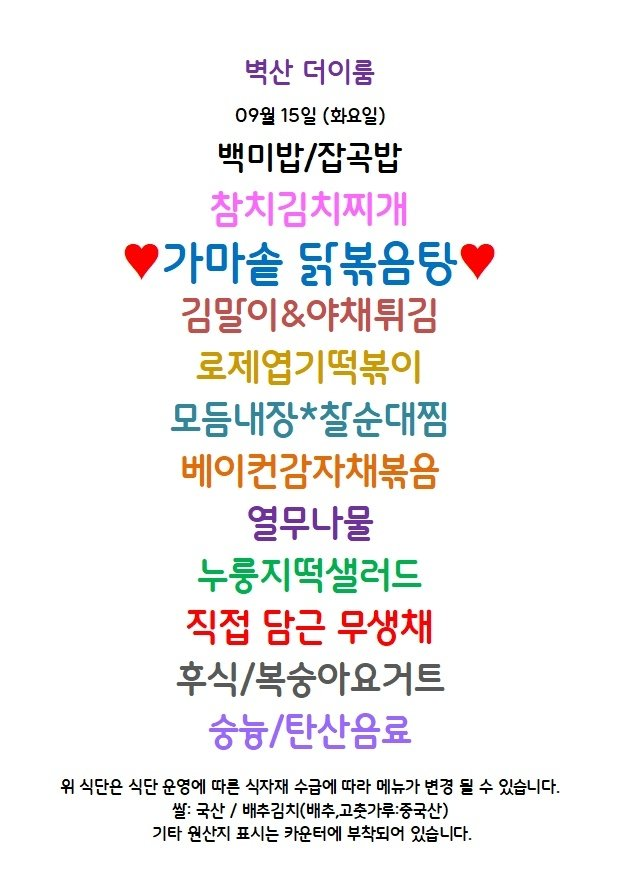
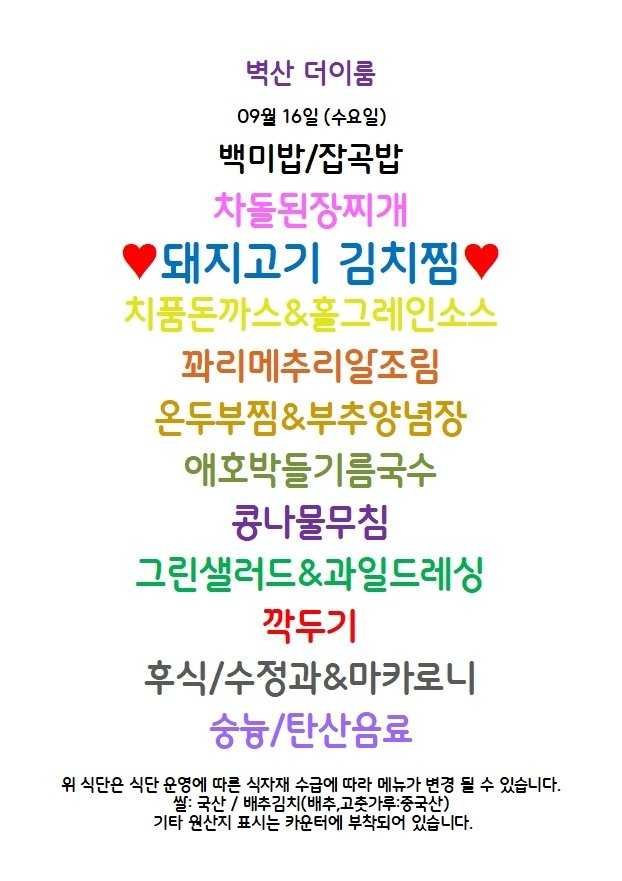
Update menu board assets

Changed region(s): [[0.0916, 0.1226, 0.9164, 0.9807], [0.3971, 0.0613, 0.6109, 0.0919]]

diff --git a/guro-menu/index.html b/guro-menu/index.html
@@ -32,7 +32,7 @@
   </header>
   <section class="meta">
     <div><small>기준 날짜</small><strong>2026년 9월 16일 수요일</strong></div>
-    <div><small>최종 갱신</small><strong>2026-09-16 10:03:34</strong></div>
+    <div><small>최종 갱신</small><strong>2026-09-16 10:13:19</strong></div>
     <div><small>등록 식당</small><strong>5개</strong></div>
   </section>
   <div class="notice">공개 카카오 채널의 메뉴 이미지를 자동 수집하고 OCR로 정리합니다. 텍스트에 오타가 있을 수 있으니 식단 이미지를 함께 확인해 주세요.</div>
@@ -89,8 +89,8 @@
           <a class="channel" href="https://pf.kakao.com/_xdLzxgG" target="_blank" rel="noopener">원본 채널</a>
         </div>
         <img class="menu-image" src="./images/byucksan-theirum.png" alt="벽산더이룸 식단 이미지" loading="lazy">
-        <p class="message">최신 공개 식단 이미지의 텍스트입니다. 날짜는 원본 이미지를 확인해 주세요.</p>
-        <ul><li>백미밥/잡곡밥</li><li>참치김지찌개</li><li>김말이8&amp;야채튀김</li><li>로제엽기떡볶이</li><li>모듬내장*칠순대찜</li><li>베이컨감자채볶음</li><li>열무나물</li><li>누릉지떡샐러드</li><li>직접 담근 무생채</li><li>후식/복숭아요거트</li><li>숭늉/탄산음료</li><li>ME: 국산 / 배추김치(배추,고촛가루:중국산)</li><li>기타 원산지 표시는 카운터에 부착되어 있습니다</li></ul>
+        
+        <ul><li>백미밥/잡곡밥</li><li>차돌된장찌개</li><li>돼지고기</li><li>과리메추리일조림</li><li>온두부찜&amp;부추양념장</li><li>애호박들기름국수</li><li>콤나물무침</li><li>그린샐러드&amp;과일드레싱</li><li>후식/수정과&amp;마카로니</li><li>숭늉/탄산음료</li></ul>
       </article>
 
       <article class="restaurant-card">

diff --git a/menu-today/index.html b/menu-today/index.html
@@ -209,7 +209,7 @@
 
     <section class="meta-bar">
       <div class="meta-card"><div class="meta-label">기준 날짜</div><div class="meta-value">2026년 9월 16일 수요일</div></div>
-      <div class="meta-card"><div class="meta-label">최종 가져온 시간</div><div class="meta-value">2026-09-16 10:03:17</div></div>
+      <div class="meta-card"><div class="meta-label">최종 가져온 시간</div><div class="meta-value">2026-09-16 10:13:04</div></div>
       <div class="meta-card"><div class="meta-label">확인 완료</div><div class="meta-value">9개 식당</div></div>
       <div class="meta-card"><div class="meta-label">준비중</div><div class="meta-value">3개 채널</div></div>
     </section>
@@ -295,7 +295,7 @@
             <div class="sub">에이스테크노타워10차</div>
           </div>
         </div>
-        <div class="menu-inline-image"><img src="./images/thefoodsketch.png" alt="더푸드스케치 식단 이미지"></div><ul><li>사꼴떡국</li><li>소고기불고기</li><li>그 오코노미야키선</li><li>= 훈제오리냉채</li><li>연근흑임자소스무칭</li><li>양배추쌈 / 우렁쌍장</li><li>무말랭이무칭</li><li>가든샐러드 &amp; 드레싱</li><li>배추겉절이 / 음료</li><li>혼합잡곡밥</li></ul>
+        <div class="menu-inline-image"><img src="./images/thefoodsketch.png" alt="더푸드스케치 식단 이미지"></div><ul><li>사꼴떡국</li><li>소고기불고기</li><li>그 오코노미야키선</li><li>= 훈제오리냉채</li><li>연근흑임자소스무칭</li><li>양배추쌈 / 우렁쌍장</li><li>무말랭이무칭</li><li>가든샐러드 / 드레싱</li><li>배추겉절이 / 음료</li><li>혼합잡곡밥</li></ul>
       </article>
 
       <article class="restaurant-card">
